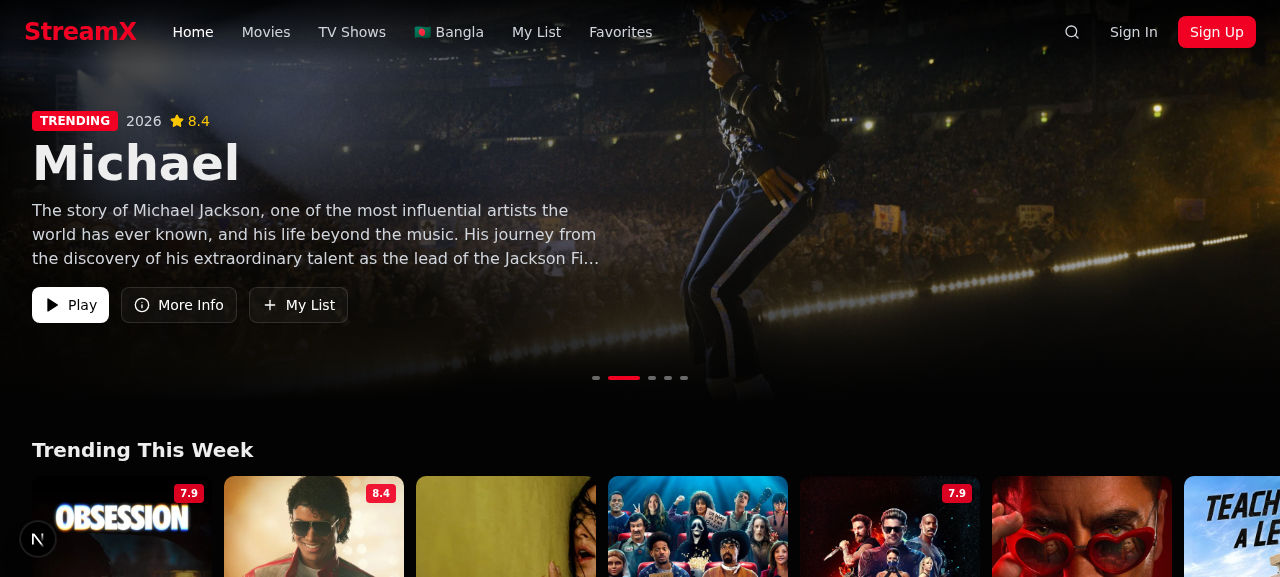
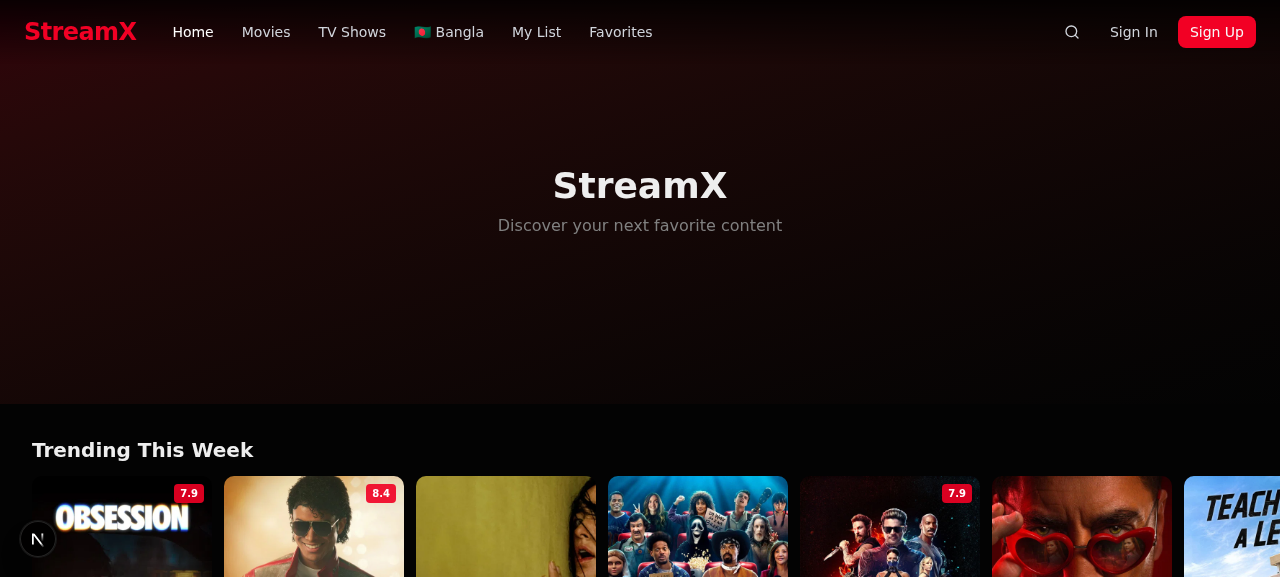
208c794f-6c27-4806-b069-ed2704178a1c

diff --git a/worklog.md b/worklog.md
@@ -97,3 +97,26 @@ Stage Summary:
 - All email pipeline steps now have detailed [email] and [register] prefixed logs
 - EmailSent status included in register API response
 - TO ACTUALLY FIX EMAIL DELIVERY: Verify a custom domain in Resend dashboard → update EMAIL_FROM to use that domain
+
+---
+Task ID: 4
+Agent: Main Agent
+Task: Fix blank preview panel issue
+
+Work Log:
+- Investigated why the platform's preview panel showed a blank/white screen
+- Root cause #1: The dev script used `2>&1 | tee dev.log` which creates a pipe that causes SIGPIPE kills when the tee process or terminal disconnects
+- Root cause #2: The dev server wasn't binding to 0.0.0.0, making it inaccessible from the Caddy gateway
+- Root cause #3: The server would crash intermittently under load (multiple concurrent requests from browser)
+- Fixed package.json dev script: changed from `next dev -p 3000 2>&1 | tee dev.log` to `next dev -p 3000 -H 0.0.0.0 > dev.log 2>&1`
+- Added `-H 0.0.0.0` flag to bind to all network interfaces (required for Caddy reverse proxy)
+- Removed `| tee` pipe that caused server crashes
+- Verified server now survives 4+ consecutive requests without crashing
+- Verified page HTML renders correctly with all StreamX content (navbar, hero, movie carousels, footer)
+- Used agent-browser to confirm the app renders correctly: full Netflix-like UI with trending movies, popular movies, TV shows, etc.
+
+Stage Summary:
+- Preview panel blank issue was caused by unstable dev server (pipe-based crash + not binding to 0.0.0.0)
+- Fixed dev script to use direct file redirect instead of pipe, and added -H 0.0.0.0 flag
+- Server now stable and accessible from the Caddy gateway on port 81
+- App fully renders: StreamX homepage with movie/TV content, navbar, footer, mobile nav
